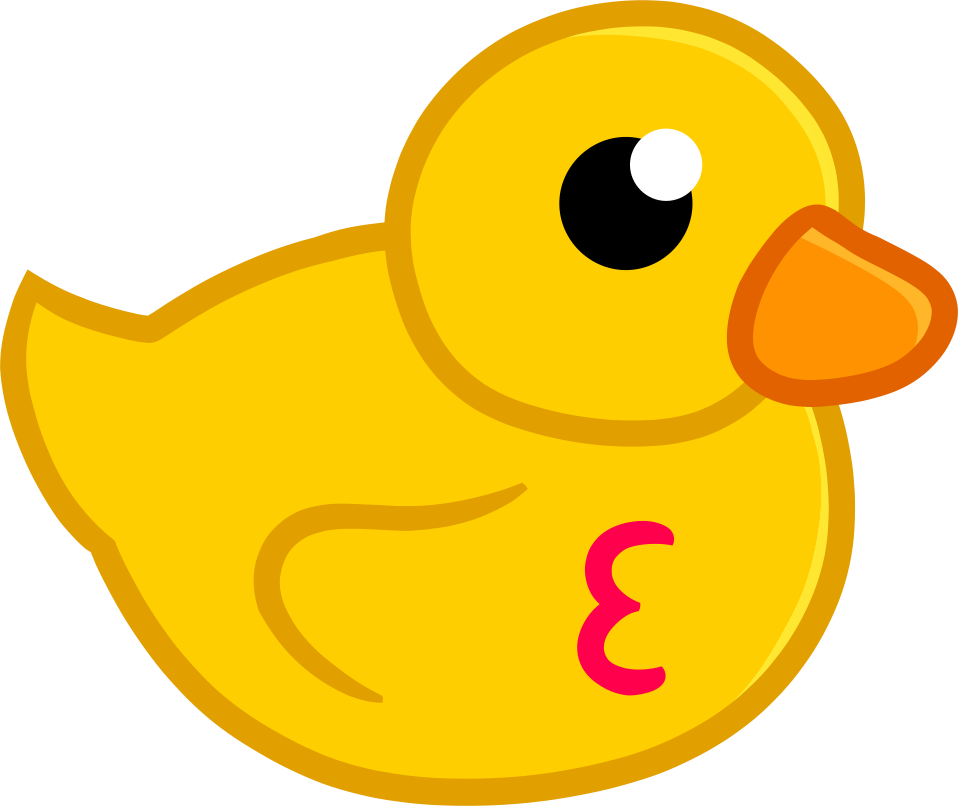
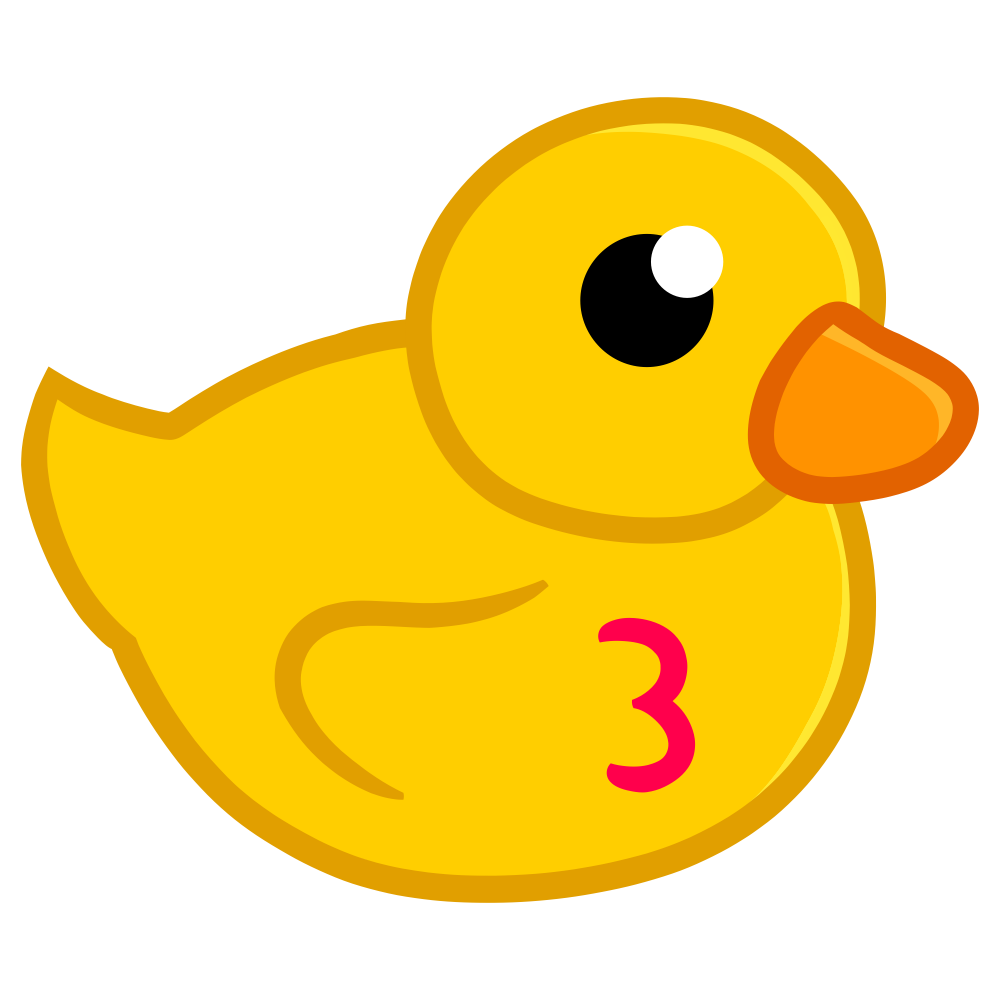
New duck art, bigger duck, bigger numbers.
The count line steps up to text-lg alongside the duck's promotion
to h-10 — stream-readability tuning from watching it live.

Changed region(s): [[0.0, 0.0, 1.0, 1.0], [0.5146, 0.4963, 0.5449, 0.5273], [0.4843, 0.4653, 0.5146, 0.4963]]

diff --git a/frontend/src/routes/overlay/$channelSlug/goals.tsx b/frontend/src/routes/overlay/$channelSlug/goals.tsx
@@ -73,14 +73,18 @@ function GoalProgress({
           style={{ left: `${pct}%` }}
         />
       </div>
-      <div className="mt-1.5 flex justify-between font-mono text-sm text-white/70">
+      <div className="mt-1.5 flex justify-between font-mono text-lg text-white/70">
         <span>
-          <span className="font-bold text-white">{current.toLocaleString()}</span> /{' '}
-          {goal.threshold.toLocaleString()}
+          <span className="font-bold text-white">
+            {current.toLocaleString()}
+          </span>{' '}
+          / {goal.threshold.toLocaleString()}
           {isPoints ? ' pts' : ' subs'}
         </span>
       </div>
-      <p className="mt-1.5 text-2xl leading-tight font-extrabold text-white">{goal.title}</p>
+      <p className="mt-1.5 text-2xl leading-tight font-extrabold text-white">
+        {goal.title}
+      </p>
     </>
-  )
+  );
 }
